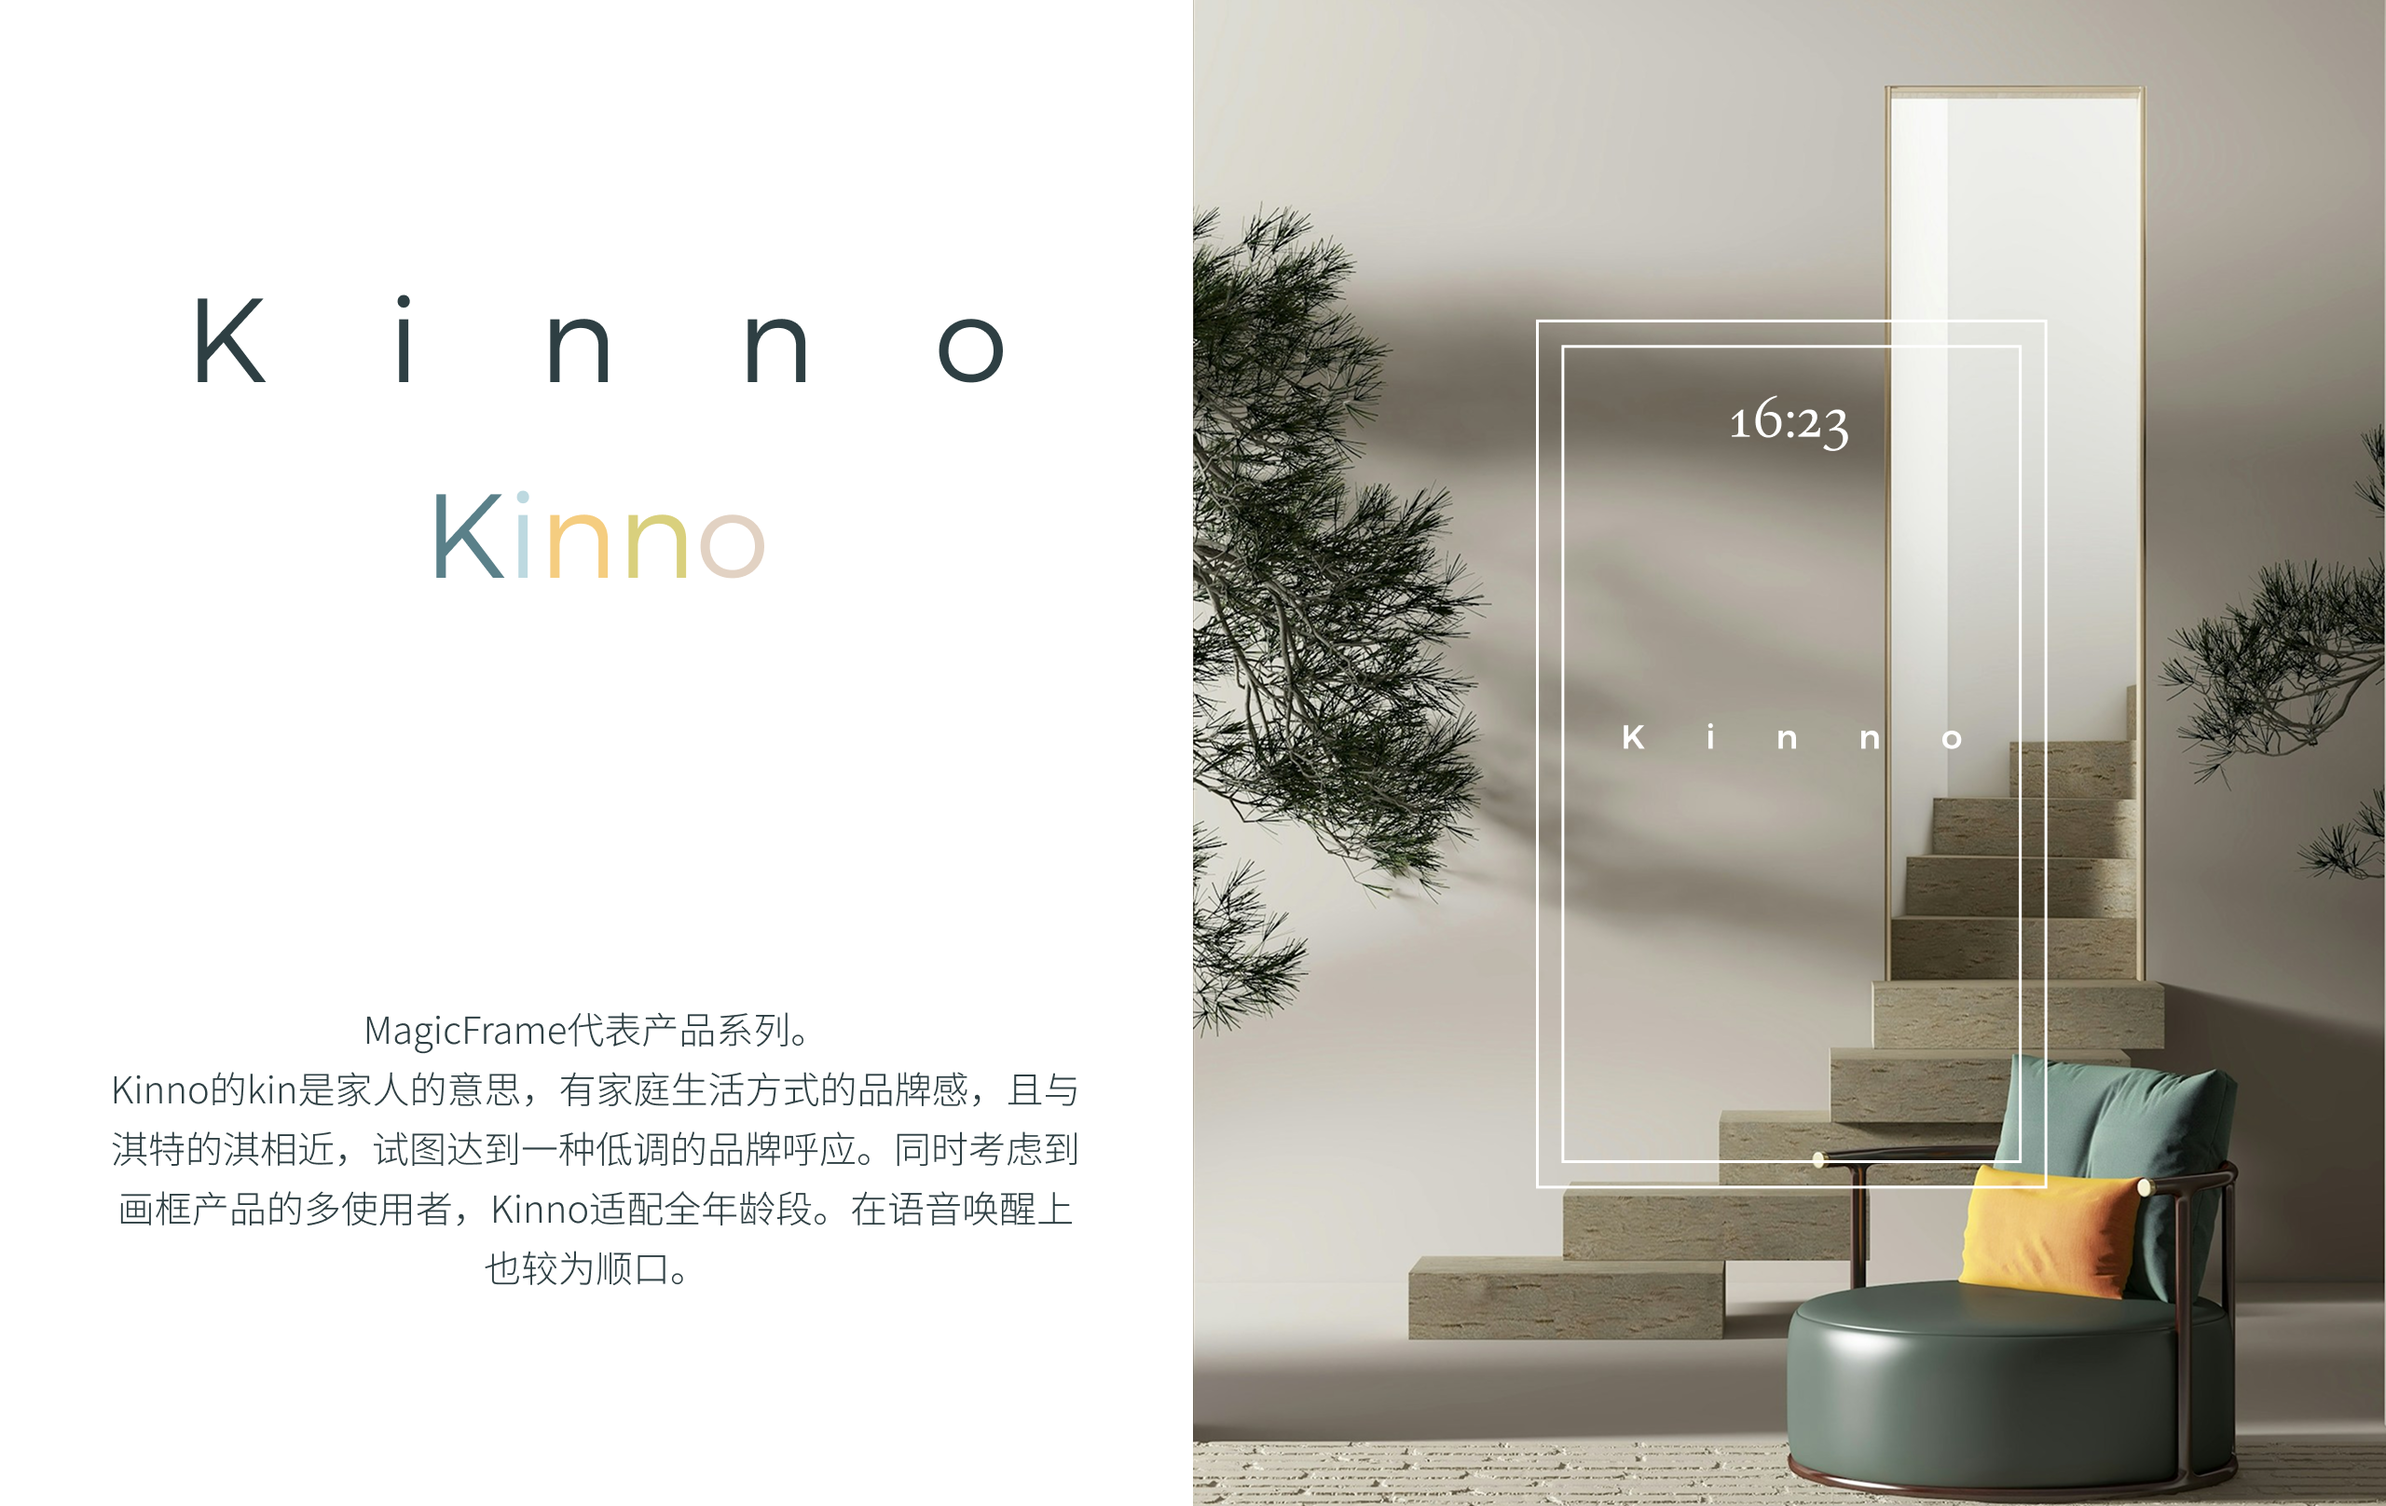
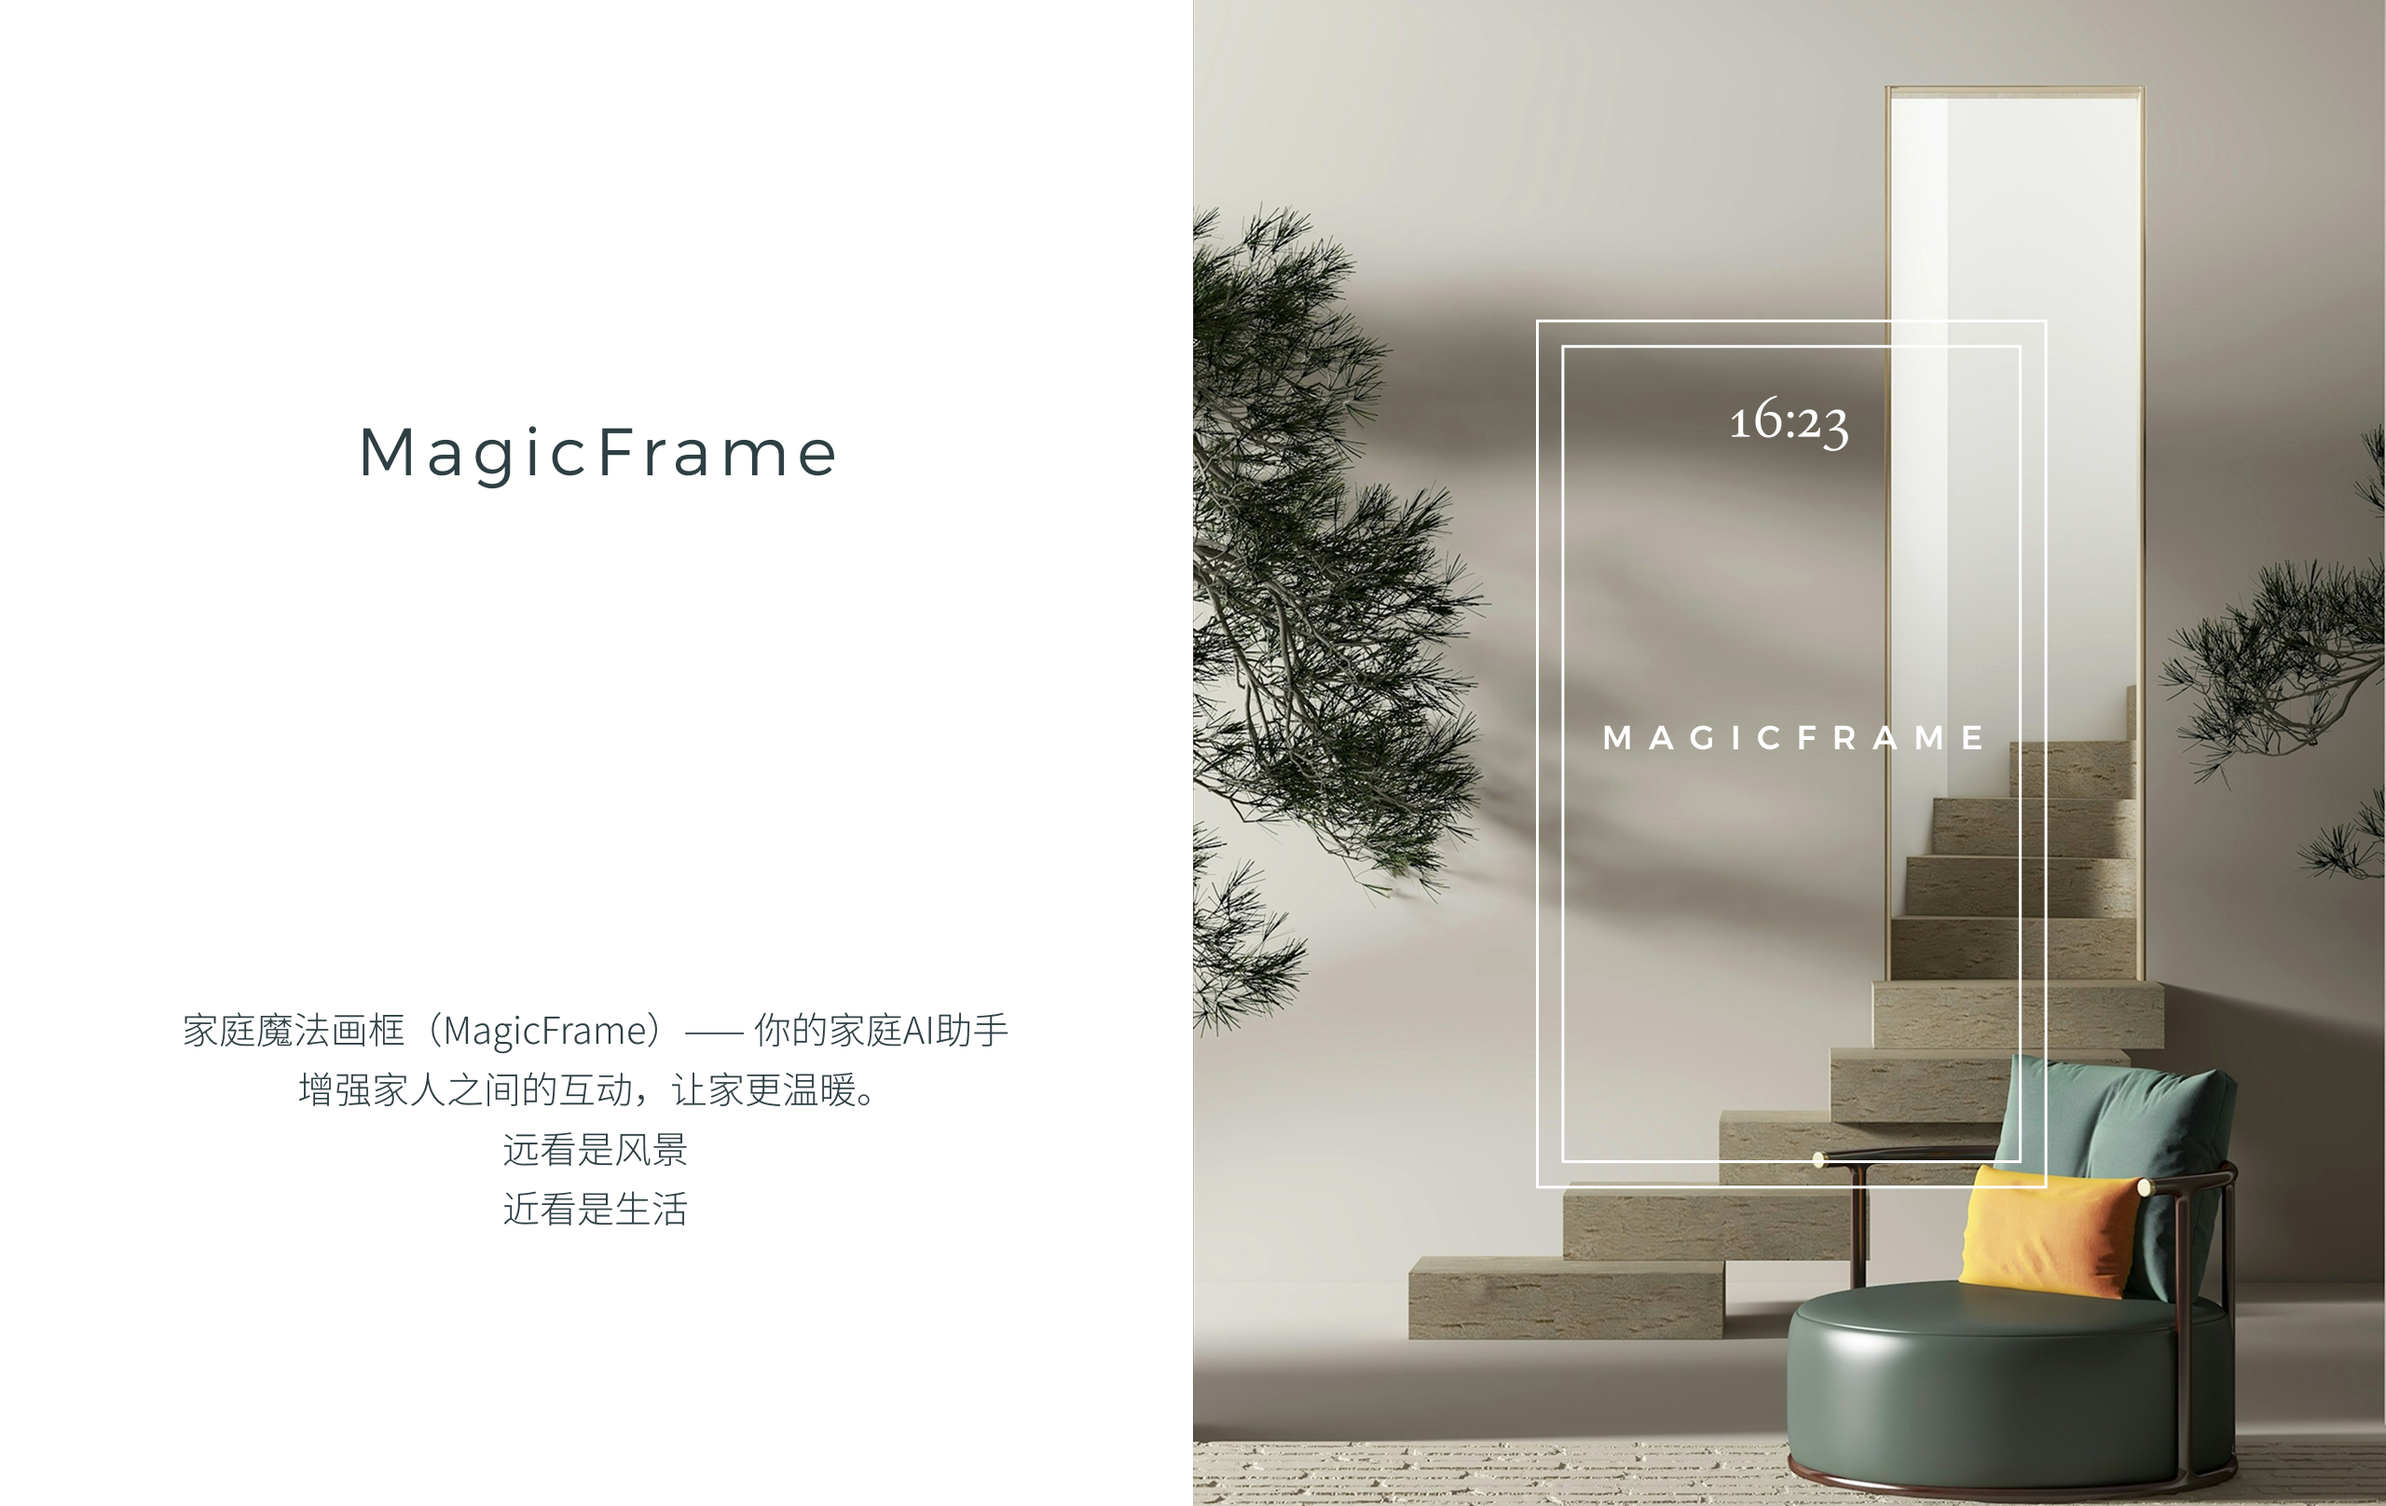
Update: Change text to MAGICFRAME and update all image1 pictures

diff --git a/index.html b/index.html
@@ -3,7 +3,7 @@
 <head>
     <meta charset="UTF-8">
     <meta name="viewport" content="width=device-width, initial-scale=1.0">
-    <title>Kinno - Design Case Study</title>
+    <title>MagicFrame - Design Case Study</title>
     
     <!-- Google Fonts -->
     <link rel="preconnect" href="https://fonts.googleapis.com">
@@ -92,7 +92,7 @@
         <!-- Text Layer with Cinematic Spacing Animation -->
         <div class="absolute inset-0 flex items-center justify-center z-10">
             <h1 class="text-white font-normal text-6xl md:text-8xl lg:text-9xl text-reveal text-center" style="font-family: 'Montserrat', sans-serif;">
-                K i n n o
+                M A G I C F R A M E
             </h1>
         </div>
     </section>
